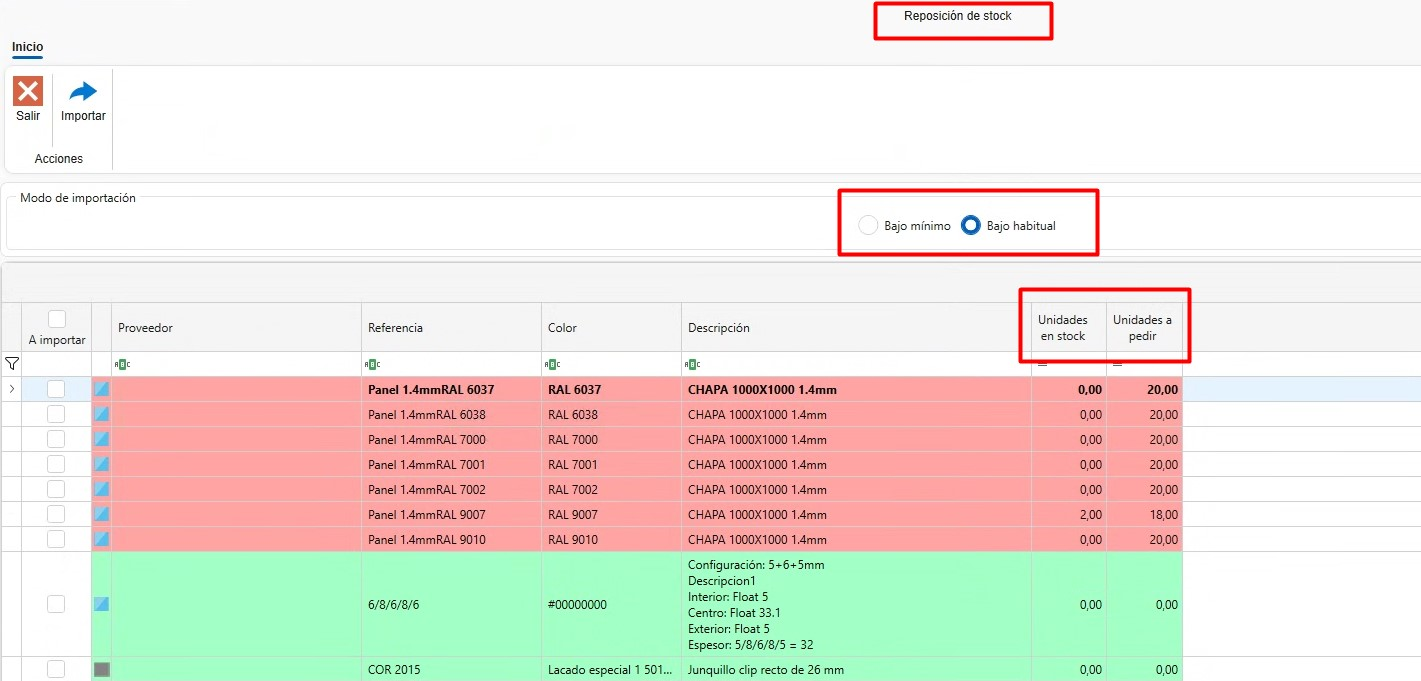
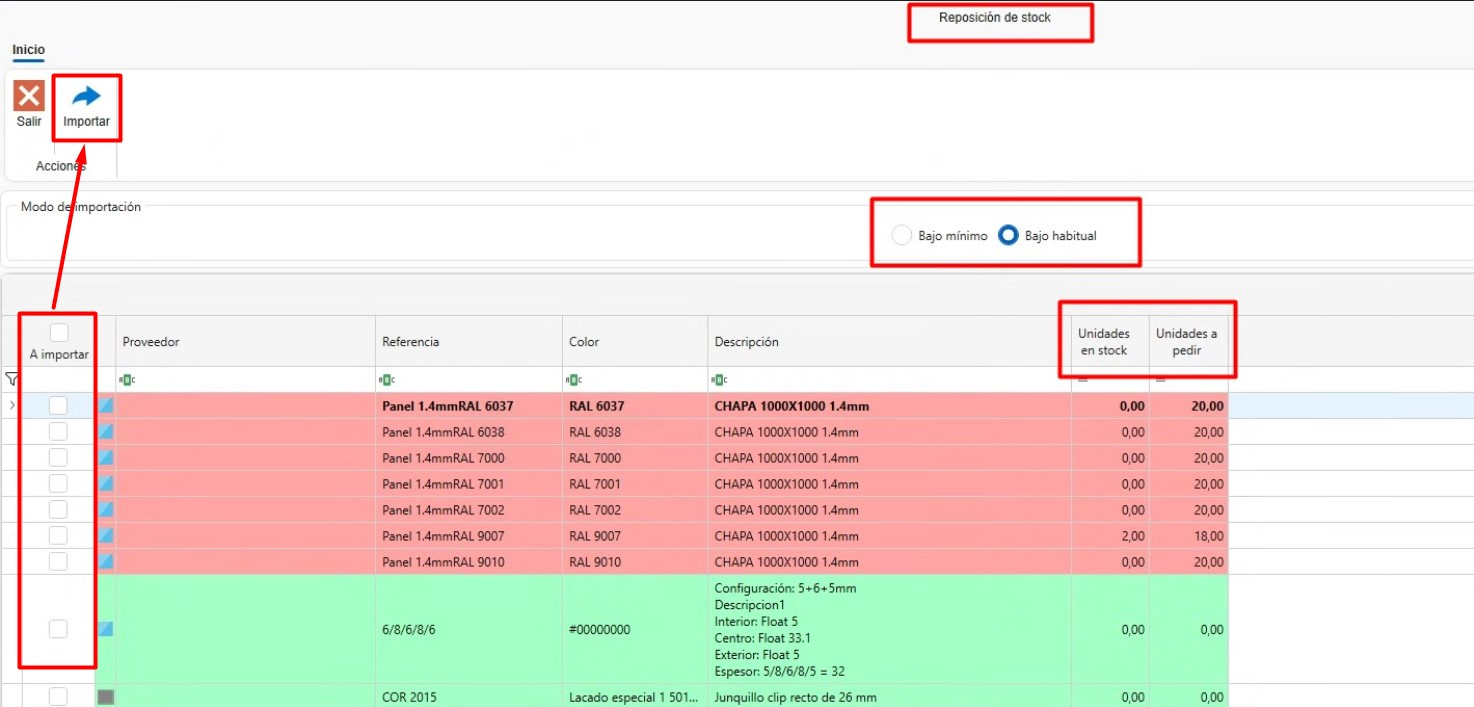
Updated Manual control stock ENBLAU ---> Reposicion de stock y stock min, max y habitual.

diff --git a/docs/Procesos/3.PR_Manual_Stock_ENBLAU.md b/docs/Procesos/3.PR_Manual_Stock_ENBLAU.md
@@ -30,7 +30,7 @@ El presente manual está diseñado para usuarios nuevos en el sistema de control
 
   ![pendientes_recibir](Imagenes/PR_Stock_Control/pendiente_recibir2.jpg)
 
-> **Nota:** Para información más detalladas sobre pedido de compras, sigue este enlace: [Pedidos de Compras](1.PR_Ventas_Compras.md#4-compras)
+> **Nota:** Para información más detallada sobre pedido de compras, sigue este enlace: [Pedidos de Compras](1.PR_Ventas_Compras.md#4-compras)
 
  > ⚠ **¡Importante!** Para hacer el pedido de materiales en el documento de venta, en algunos casos se requieren permisos especiales para realizar compras. Este permiso también es necesario para fabricar o instalar.
 
@@ -68,11 +68,17 @@ El presente manual está diseñado para usuarios nuevos en el sistema de control
 
 > **Nota:** El uso de material reservado es algo visual, eso no impedirá que se usen los materiales aunque estén reservados. Se recomienda el uso de [Asignar materiales a proyecto](#22-asignar-materiales-a-proyecto) si quieres tener un mejor control de stock.
 
-- En **Compras** hay una opción más en el desplegable de almacén llamada **Reposición de stock**, donde se mostrará un listado de bajo mínimo y bajo habitual.
+### 2.4. Reposición de stock
+
+ En **Compras** hay una opción más en el desplegable de almacén llamada **Reposición de stock**, donde se mostrará un listado de los materiales que hay que pedir bajo mínimo y bajo habitual. 
 
   ![reposicion_stock](Imagenes/PR_Stock_Control/reposicion_stock.jpg)
 
+  - Marcar la casilla **A importar** a los materiales que sea necesario pedir. Después seleccionar el botón **Importar** para añadir al pedido de compra.
+
   ![reposicion_stock](Imagenes/PR_Stock_Control/reposicion_stock2.jpg)
+
+> **Nota:** Para más información sobre como definir para cada material el stock mínimo, stock máximo y stock habitual ir al apartado [Configuración de materiales](#51-configuracion-de-materiales).
 
 ---
 
@@ -234,9 +240,12 @@ Desde esta sección puedes definir, para cada artículo, una serie de valores po
 - **Stock mínimo**, **stock máximo** y **stock habitual**:  
   Puedes definir los valores de referencia para la gestión de existencias, lo cual es útil para alertas, reposiciones automáticas o planificación.
 
-![Material importado](Imagenes/PR_Stock_Control/material_importado.jpg)
+    ![Material importado](Imagenes/PR_Stock_Control/material_importado.jpg)
 
-> **Nota:** La correcta configuración de estos campos mejora significativamente el control de inventario, la planificación de compras y la trazabilidad de materiales durante la producción.
+    En el apartado de [Reposición de stock](#24-reposicion-de-stock) en compras se puede sacar un listado de Bajo mínimo y Bajo habitual según como este definido el stock mínimo, máximo y habitual para cada material.
+
+
+> **Nota:** La correcta configuración de estos campos mejora significativamente el control de inventario, la planificación de compras y la trazabilidad de materiales durante la producción. En el apartado 
 
 ---
 
@@ -253,7 +262,7 @@ En el apartado **Almacenes → Producto terminado** se encuentran dos listados p
 
 ---
 
-## 6.1. Ubicación de productos
+### 6.1. Ubicación de productos
 
 - En el listado de **Ubicación de productos** se muestra la información y la localización actual del producto terminado, tal como se haya definido desde el puesto de **Comprobación final** en **enCONTROL**.
 
@@ -269,7 +278,7 @@ En el apartado **Almacenes → Producto terminado** se encuentran dos listados p
 
 ---
 
-## 6.2. Movimientos de producto
+### 6.2. Movimientos de producto
 
 - En el apartado **Movimientos de producto** se registran todas las operaciones realizadas con los productos terminados, incluyendo:
 
@@ -301,7 +310,7 @@ Una vez completado el proceso, el sistema registrará un nuevo movimiento del ti
 
 ---
 
-## 6. Control de stock y reportes
+## 7. Control de stock y reportes
 
 - Monitorea el stock necesario desde la sección "Producción".
 - Identifica materiales reservados y pendientes en tiempo real.
@@ -309,7 +318,7 @@ Una vez completado el proceso, el sistema registrará un nuevo movimiento del ti
 
 ---
 
-## 7. Resolución de problemas comunes
+## 8. Resolución de problemas comunes
 
 - **Error al importar referencias**: Verifica que las referencias estén configuradas en la base de datos.
 - **Materiales sobrantes o faltantes**: Asegúrate de registrar correctamente las ubicaciones y cantidades al recibir materiales.
@@ -317,6 +326,6 @@ Una vez completado el proceso, el sistema registrará un nuevo movimiento del ti
 
 ---
 
-## 8. Conclusión
+## 9. Conclusión
 
 Este manual ofrece una guía paso a paso para los procesos principales en el sistema de control de stock. Siguiendo estas instrucciones, los usuarios podrán gestionar eficientemente los inventarios, mejorar la producción y optimizar la relación con proveedores. Para soporte adicional, contacte al administrador del sistema.
